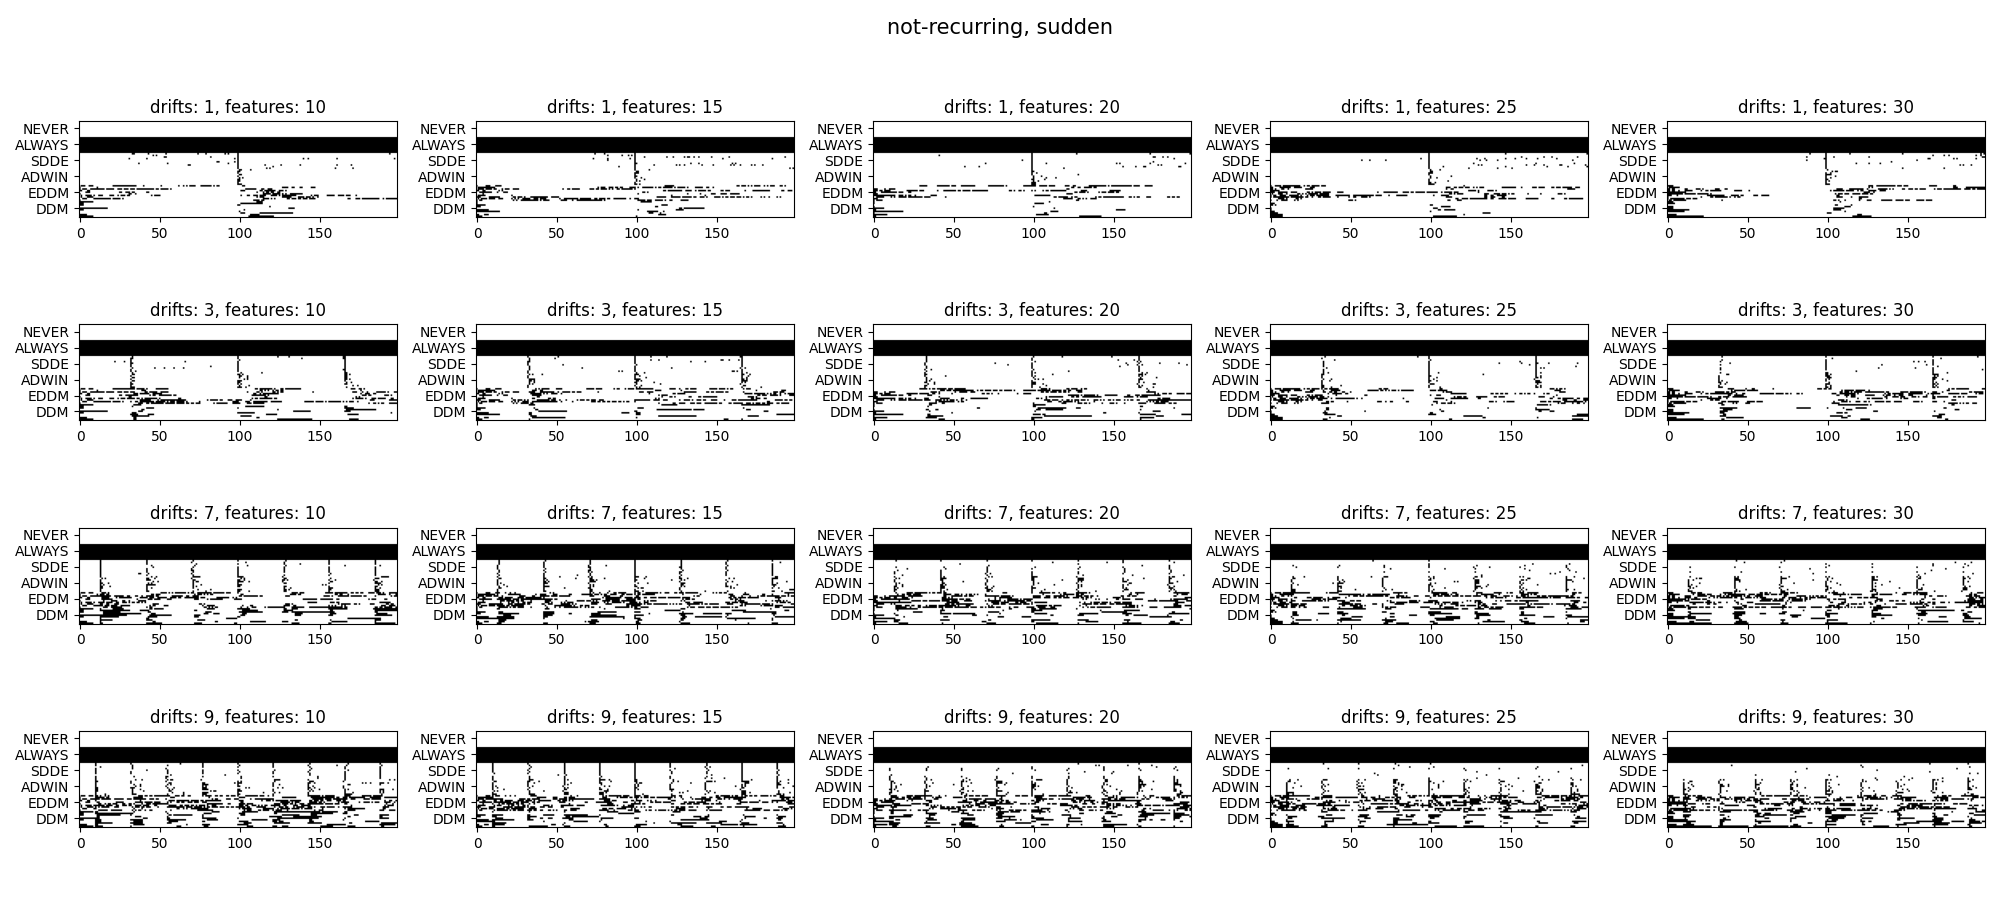
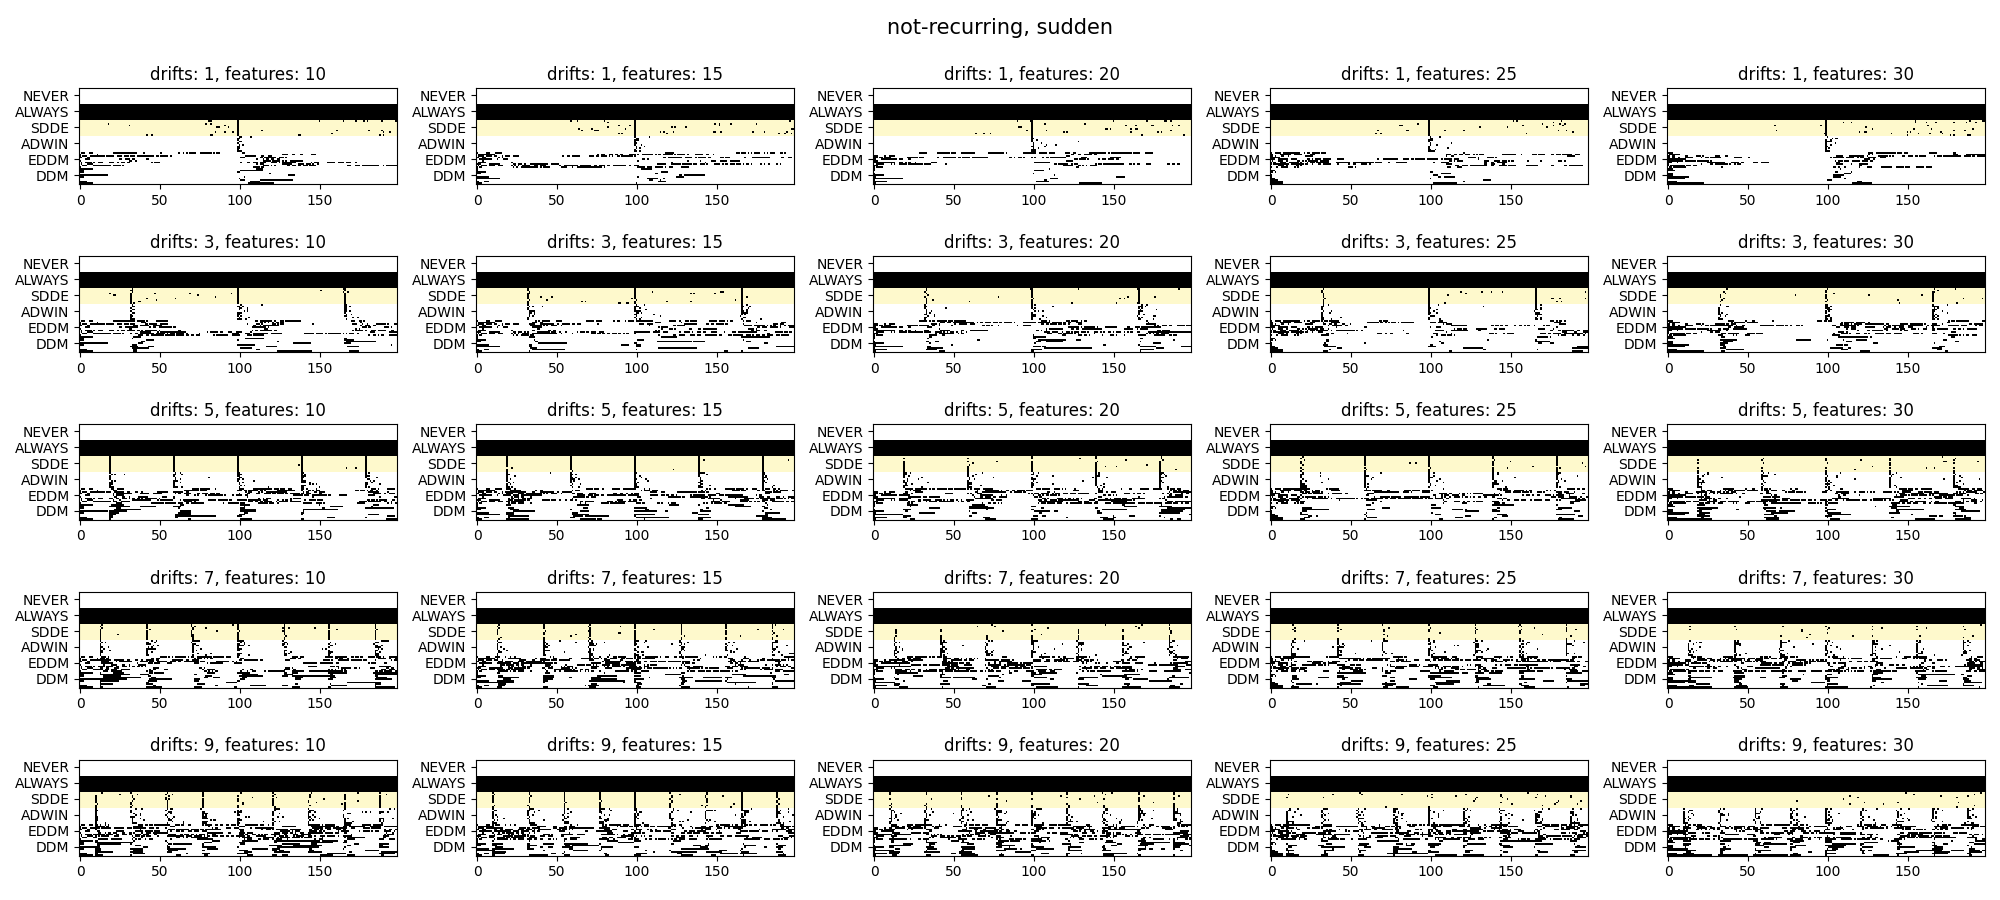
plots

diff --git a/pixel_plot_d_f.py b/pixel_plot_d_f.py
@@ -2,6 +2,8 @@ import e2_config
 import numpy as np
 import matplotlib.pyplot as plt
 from methods.dderror import dderror
+import matplotlib.colors
+
 
 drf_types = e2_config.e2_drift_types()
 recurring = e2_config.e2_recurring()
@@ -10,11 +12,13 @@ detector_names = e2_config.e2_clf_names()
 drifts_n = e2_config.e2_n_drifts()
 features_n = e2_config.e2_n_features()
 
+cmap = matplotlib.colors.LinearSegmentedColormap.from_list("", ["white", "lemonchiffon", "black"])
+
 for rec_id, rec in enumerate(recurring):
     for drf_id, drf_type in enumerate(drf_types):
 
-        if drf_type != 'sudden':
-            continue
+        # if drf_type != 'sudden':
+        #     continue
 
         plt.close()
         fig, ax = plt.subplots(len(drifts_n), len(features_n), figsize=(20, 9))
@@ -24,23 +28,23 @@ for rec_id, rec in enumerate(recurring):
         for f_id, f in enumerate(features_n):
             for d_id, d in enumerate(drifts_n):
 
-                res_clf = np.load('results_ex2_d_f_45/clf_%ifeat_%idrifts_%s_%s.npy' %(f, d, drf_type, rec))
+                # res_clf = np.load('results_ex2_d_f_45/clf_%ifeat_%idrifts_%s_%s.npy' %(f, d, drf_type, rec))
                 # replications x detectors x chunks-1
-                res_clf_mean = np.mean(res_clf, axis=0)
+                # res_clf_mean = np.mean(res_clf, axis=0)
 
                 res_arr = np.load('results_ex2_d_f_45/drf_arr_%ifeat_%idrifts_%s_%s.npy' %(f, d, drf_type, rec))
                 # replications x detectors x (real, detected) x chunks-1
 
-                dderror_arr = np.zeros((res_arr.shape[0],res_arr.shape[1], 3))
+                # dderror_arr = np.zeros((res_arr.shape[0],res_arr.shape[1], 3))
 
-                for rep in range(res_arr.shape[0]):
-                    for det in range(res_arr.shape[1]):
-                        real_drf = np.argwhere(res_arr[rep, det, 0]==2).flatten()
-                        det_drf = np.argwhere(res_arr[rep, det, 1]==2).flatten()
-                        err = dderror(real_drf, det_drf, res_arr.shape[3])
-                        dderror_arr[rep, det] = err
+                # for rep in range(res_arr.shape[0]):
+                #     for det in range(res_arr.shape[1]):
+                #         real_drf = np.argwhere(res_arr[rep, det, 0]==2).flatten()
+                #         det_drf = np.argwhere(res_arr[rep, det, 1]==2).flatten()
+                #         err = dderror(real_drf, det_drf, res_arr.shape[3])
+                #         dderror_arr[rep, det] = err
 
-                res_arr_mean = np.mean(dderror_arr, axis=0)
+                # res_arr_mean = np.mean(dderror_arr, axis=0)
 
                 """
                 Plot
@@ -52,12 +56,17 @@ for rec_id, rec in enumerate(recurring):
 
                     zzz = res_arr[:,:,1,:]
                     zzz[zzz==1]=0 # warningi przeszkadzaja
+
+                    mask = zzz==0
+                    mask[:,[0,1,2,4,5],:]=False
+                    zzz[mask]=1
+
                     zzz = np.swapaxes(zzz, 0,1)
                     zzz = np.reshape(zzz, (-1, 199))
 
                     # print(zzz, zzz.shape)
 
-                    ax[d_id,f_id].imshow(zzz, cmap= 'binary', origin='lower')
+                    ax[d_id,f_id].imshow(zzz, cmap= cmap, origin='lower', interpolation='none')
 
                 ax[d_id,f_id].set_yticks([5,15,25,35,45,55])
                 ax[d_id,f_id].set_yticklabels("%s" % d for i, d in enumerate(detector_names))
